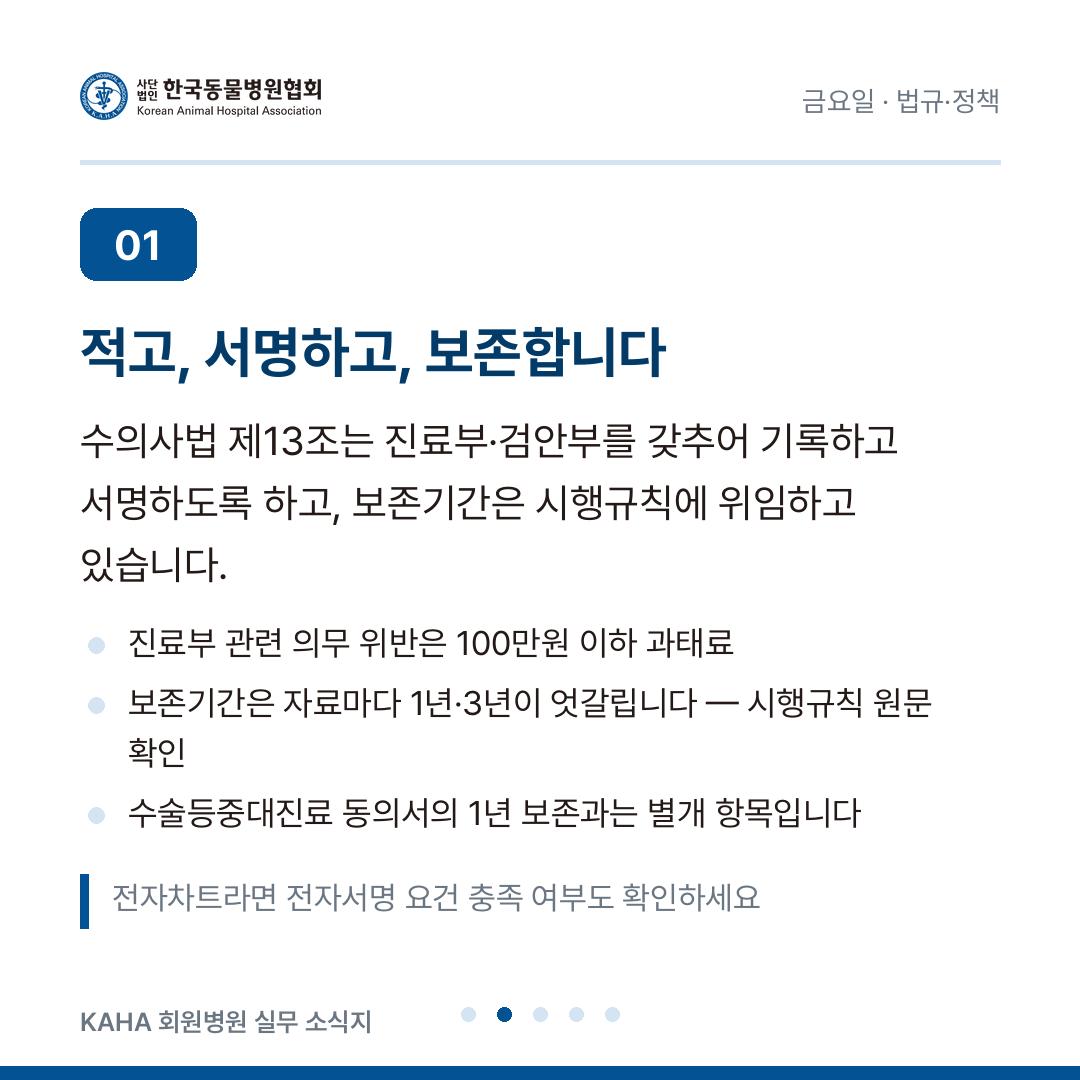
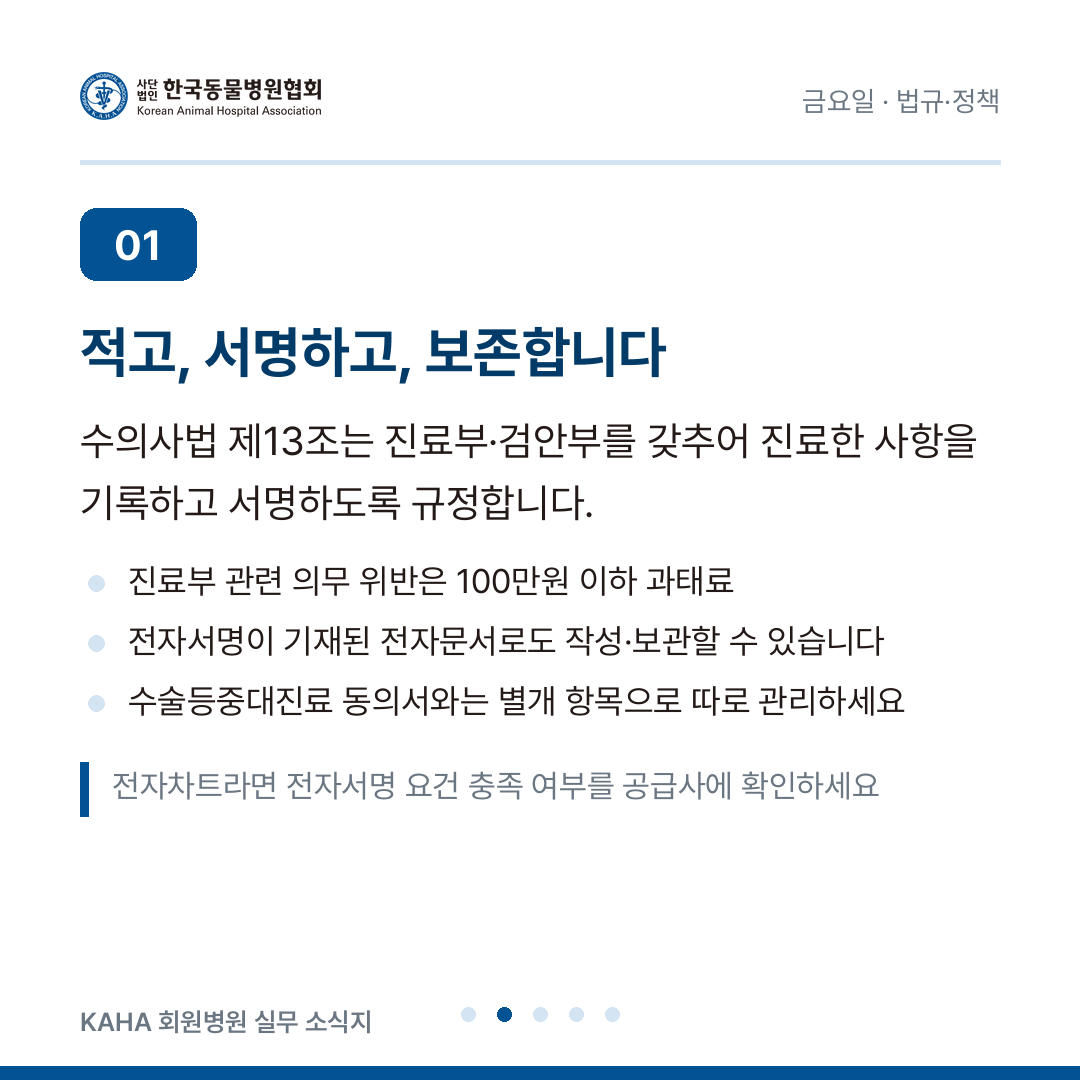
공개 문서에서 모호한 표현 제거 + 확인요청 목록 분리
협회가 회원병원에 제공하는 문서이므로 "확인이 필요하다"는 식의
유보 표현을 쓰지 않기로 함. 확신 없는 내용은 완화하지 않고 삭제하고,
싣는 내용은 단정적으로 서술.

제거한 표현이 있던 곳:
- 8/17 개정판 유무, 유권해석 문서번호 미확인, 유병률 자료 불일치,
  대한수의사회 입장문 부존재 언급
- 8/19 야간 상주 고지 규정 부존재 언급
- 8/21 진료부 보존기간 1년/3년 병기, 전자 진료부 세부조건 유보,
  헌법소원 진행단계 유보
- 8/24 검역본부 지침 발간연도 유보, 대한수의사회 지침 부존재 언급
- 8/25 출퇴근기록부 규정 부존재 언급
- 8/26 원논문 미특정 통계, 1차 출처 미확보 언급
- 8/27 기업업무추진비 한도 미확인, "이번 호에서 다루지 않은 것" 절
- 8/28 종량제 봉투 유보, 과태료 미대조 언급, 올바로 미수록 언급
카드 3세트(8/19·8/21·8/26)도 같은 기준으로 재작성 후 재생성.

factcheck/확인요청.md 신설:
삭제한 항목을 원장님이 확인할 수 있도록 우선순위별로 정리.
각 항목마다 확인처(URL·경로), 볼 내용, 확인 시 어떻게 반영할지 명시.
1순위는 진료부 보존기간(수의사법 시행규칙 제13조), 퇴직급여 형벌
시행일, 산재 업종요율. 원문 대조 없이도 근거가 충분한 항목은
"확인 불필요"로 별도 표기.

팩트체크 기록(factcheck/)은 내부 검증 기록이므로 판정과 한계를
그대로 유지.

diff --git a/factcheck/확인요청.md b/factcheck/확인요청.md
@@ -1,0 +1,104 @@
+# 원장님 확인 요청 목록
+
+작성: 2026-08-14 · 대상: 2026-08-17 ～ 08-28 발행분
+
+이 세션의 작업 환경에서는 law.go.kr·mfds.go.kr·wsava.org 등 **모든 사이트의 직접 열람이 차단**되어 있어(검색만 가능), 아래 항목은 원문 대조를 하지 못했습니다. 저장소 원칙에 따라 **해당 내용은 소식지 본문과 카드에서 모두 제거**한 상태입니다.
+
+아래는 원장님이 확인해 주시면 바로 본문에 넣을 수 있는 항목입니다. **확인 결과만 알려주시면 제가 해당 호와 팩트체크 기록에 반영합니다.**
+
+---
+
+## 우선순위 1 — 확인되면 본문에 바로 반영할 항목
+
+### 1-1. 진료부·검안부 보존기간 ★가장 중요
+
+- **왜**: 8/21 호(진료기록부)의 핵심 항목인데, 자료마다 1년과 3년이 엇갈려 현재 **수치를 빼고 발행 예정**입니다.
+- **어디서**: 국가법령정보센터 [law.go.kr](https://www.law.go.kr) → 법령 검색 "수의사법 시행규칙" → **제13조(진료부 및 검안부의 기재사항)**
+- **무엇을**: 조문 끝부분에 "진료부 또는 검안부는 **○년간** 보존하여야 한다"는 항이 있습니다. 그 숫자만 알려주시면 됩니다.
+- **반영**: 확인되면 8/21 본문에 보존기간을 명시하고, 체크리스트에 "○년 보존 관리" 항목을 넣겠습니다. 아울러 8/12 호 팩트체크 기록(현재 보류 상태)도 확정하겠습니다.
+- **참고**: 수술등중대진료 동의서 1년 보존은 별개 항목으로 이미 확인되었습니다.
+
+### 1-2. 퇴직급여 체불 형벌 상향 시행일
+
+- **왜**: 8/18 호의 **리드 문장**입니다. "2026년 9월 18일부터 5년 이하 징역 또는 5천만원 이하 벌금"으로 썼습니다.
+- **어디서**: law.go.kr → "근로자퇴직급여 보장법" → 화면 상단 **[연혁]** 또는 **[제정·개정문]** 탭 → 최근 개정 부칙의 시행일
+- **무엇을**: ① 벌칙 조항(제44조)의 형량이 5년/5천만원으로 개정되었는지 ② 부칙상 시행일이 2026-09-18이 맞는지
+- **반영**: 다르면 날짜와 형량을 정정합니다. 발행 한 달 전 시점을 리드로 쓴 것이라 날짜가 틀리면 호의 설득력이 크게 떨어집니다.
+
+### 1-3. 동물병원 산재보험 업종요율
+
+- **왜**: 8/20 호(인건비 계산)에서 현재 **"약 0.6%"**로 완화 표기했습니다. 확정하면 계산 표를 정확히 쓸 수 있습니다.
+- **어디서**: 근로복지공단 [comwel.or.kr](https://www.comwel.or.kr) → 보험료 → **산재보험료율 조회** (사업자등록번호로 조회)
+- **무엇을**: 우리 병원에 실제 적용되는 2026년 업종요율(%)
+- **반영**: "약 0.6%" → 확정 수치로 바꾸고 사업주 부담률 합계(현재 약 10.6%)를 재계산합니다.
+
+---
+
+## 우선순위 2 — 확인되면 내용을 되살릴 항목 (지금은 삭제 상태)
+
+### 2-1. 스케일링을 진료행위로 본 농식품부 유권해석 (2015)
+
+- **왜**: 8/17 호 무마취 스케일링 편의 **국내 법적 근거**였는데, 문서번호를 확인하지 못해 통째로 뺐습니다. 지금은 한국수의치과협회 입장만 실려 있어 국내 근거가 약합니다.
+- **어디서**: 농림축산식품부 [mafra.go.kr](https://www.mafra.go.kr) 정보공개 → 유권해석/질의회신, 또는 협회 법제 담당을 통해 회신 공문
+- **무엇을**: 해당 유권해석의 **연도·문서번호·요지**
+- **반영**: 확인되면 "농림축산식품부는 ○○(문서번호)에서 스케일링을 진료행위로 판단했습니다"로 본문에 되살립니다. 무면허 진료 논점으로 이어지는 가장 강한 국내 근거입니다.
+
+### 2-2. 애견미용사 스케일링 기소유예 사례
+
+- **왜**: 위 항목과 함께 뺐습니다. 실제 처분 사례라 설득력이 큽니다.
+- **어디서**: 협회 법무 자문 또는 데일리벳 기사 원문(사건 연도·관할 검찰청)
+- **무엇을**: 사건 연도와 처분 내용
+- **반영**: 8/17 국내 근거 절에 한 문장으로 추가합니다.
+
+### 2-3. 의료폐기물 위반별 과태료 금액
+
+- **왜**: 8/28 호에서 "보관기간 초과·혼합보관은 1천만원 이하"까지만 남기고, 위반 유형별 세부 금액은 뺐습니다.
+- **어디서**: law.go.kr → "폐기물관리법 시행령" → **[별표] 과태료의 부과기준**
+- **무엇을**: 미분류 혼합배출 / 보관기간 초과 / 올바로 미신고 / 교육 미이수의 1차·2차·3차 금액
+- **반영**: 표로 만들어 본문에 넣겠습니다. 실무자가 가장 궁금해하는 부분입니다.
+
+### 2-4. 올바로시스템 신고 의무와 소량배출자 특례
+
+- **왜**: 8/28 호에서 전자 인계·인수 신고, 위탁계약서 보관, 소량배출 특례를 전부 뺐습니다.
+- **어디서**: 올바로시스템 [allbaro.or.kr](https://www.allbaro.or.kr) → 제도안내, 또는 관할 지자체 환경과
+- **무엇을**: ① 동물병원도 전자 인계·인수 신고 대상인지 ② 배출량이 적은 기관에 대한 특례가 있는지
+- **반영**: 있으면 별도 절로 추가합니다. 소규모 병원에 실익이 큰 정보입니다.
+
+### 2-5. 기업업무추진비 2026년 기본한도
+
+- **왜**: 8/27 호에서 금액을 빼고 "세무사에게 당해연도 한도 확인"으로만 썼습니다.
+- **어디서**: 국세청 [nts.go.kr](https://www.nts.go.kr) 또는 담당 세무사
+- **무엇을**: 2026년 개인사업자 기본한도 금액과 수입금액 적용률
+- **반영**: 확인되면 계산식과 함께 본문에 넣겠습니다.
+
+---
+
+## 우선순위 3 — 있으면 좋은 항목
+
+| 항목 | 어디서 | 관련 호 |
+|---|---|---|
+| 검역본부 「개·고양이 항생제 처방 가이드라인」 **발간연도** | [ebook.qia.go.kr](https://ebook.qia.go.kr) 판권지 | 8/24 |
+| WSAVA 치과 가이드라인 **한국어판이 축약판인지 전문판인지** | wsava.org 번역본 PDF 첫 장 | 8/17 |
+| 진료부 기재사항 중 **동물등록번호 인용 조문**(동물보호법 제12조 vs 제15조) | law.go.kr 수의사법 시행규칙 제13조 | 8/21 |
+| **토요일 근무**의 법적 성격(무급휴무일 vs 휴일) 병원 취업규칙상 처리 | 병원 취업규칙 · 노무사 | 8/25 (현재 미수록) |
+| 봉합사 제거 시점·응급 재내원 기준 **병원 표준 프로토콜** | 병원 내부 기준 | 8/26 양식 기본값 |
+
+---
+
+## 확인이 필요 없는 항목 (원문 대조 없이도 근거가 충분한 것)
+
+아래는 정부 보도자료·대법원 판결문 등 1차에 준하는 출처가 복수로 확인되어 **그대로 발행해도 되는** 내용입니다.
+
+- 2026년 최저임금 10,320원 / 월 2,156,880원 (고용노동부 고시)
+- 국민연금 9.5%, 건강보험 7.19%, 장기요양 0.9448% (정책브리핑·보건복지부 보도자료)
+- 대법원 2024.12.19. 통상임금 전원합의체 판결 (대법원 보도자료)
+- 대법원 2007다90760 퇴직금 분할약정 무효 판결
+- 수의사법 제13조의2 수술등중대진료 서면동의, 시행일 2022.7.5 (농식품부)
+- 진료비 게시 2024.1.5 전면 시행 / 2025.1.1 20개 항목 확대 (정책브리핑)
+- 식약처 2026.8.5 동물병원 46곳 점검 28곳 적발 (복수 전문지 일치)
+- ISCAID 2025 농피증 가이드라인 권고 (오픈액세스 원문 공개)
+- 폐기물관리법 제2조 제5호 의료폐기물 정의에 동물병원 명시
+
+---
+
+**진행 방법**: 위 항목 중 확인되는 것만 알려주시면 됩니다. 전부 아니어도 되고, 1-1(진료부 보존기간) 하나만 해결돼도 8/21 호가 완성됩니다.

diff --git a/issues/2026-08-26.md b/issues/2026-08-26.md
@@ -7,7 +7,7 @@
 
 ## 법적 의무는 아닙니다. 그런데 실익이 큽니다
 
-먼저 분명히 해두겠습니다. **확인된 범위에서 국내법에 "퇴원 시 서면 안내문을 교부하라"는 의무 규정은 없습니다.** 수의사법이 서면을 요구하는 것은 수술등중대진료의 **사전** 설명·동의서이고, 예상 진료비용 고지는 **구두**로도 가능합니다.
+먼저 분명히 해두겠습니다. **국내법에 "퇴원 시 서면 안내문을 교부하라"는 의무 규정은 없습니다.** 수의사법이 서면을 요구하는 것은 수술등중대진료의 **사전** 설명·동의서이고, 예상 진료비용 고지는 **구두**로도 가능합니다.
 
 그럼에도 이 문서를 권하는 이유는 **증명** 때문입니다. 법원은 수의사가 구체적 설명을 했다는 점을 증명하지 못한 사안에서 설명의무 불이행을 인정하고 위자료 배상을 명한 사례가 있습니다(대전지방법원 2022. 9. 8. 선고 2021나150 판결). 한국소비자원에 접수된 동물병원 관련 피해구제에서도 "설명 부족"은 반복 등장하는 유형입니다.
 
@@ -19,7 +19,7 @@
 
 같은 가이드라인은 마취 관련 사망의 상당수가 회복기에, 그중 대부분이 초기 몇 시간 안에 발생한다는 점을 인용합니다. **퇴원 직후 몇 시간이 보호자에게 넘어가는 구간**이라는 점을 안내문에 반영할 이유가 여기 있습니다.
 
-투약 순응도 연구들은 서면 지침과 투약 체크리스트가 도움이 된다고 보고합니다. 고양이 대상 연구에서는 **퇴원 전에 경구약의 기호성과 보호자가 실제로 투여할 수 있는지를 확인**하는 것이 순응도를 개선할 수 있다는 결론이 제시되었습니다. 짧은 항생제 요법을 받은 개에서 보호자의 절반 이상이 1일 투여 횟수를 부정확하게 투여했고 대부분 과소투여였다는 보고도 있습니다(원논문 특정은 확인하지 못했습니다).
+투약 순응도 연구들은 서면 지침과 투약 체크리스트가 도움이 된다고 보고합니다. 고양이 대상 연구에서는 **퇴원 전에 경구약의 기호성과 보호자가 실제로 투여할 수 있는지를 확인**하는 것이 순응도를 개선할 수 있다는 결론이 제시되었습니다.
 
 ## 이 안내문은 처방전이 아닙니다
 
@@ -43,16 +43,16 @@
 8. **응급 연락 기준** — 병원이 환자별로 채우는 빈칸 + 야간·공휴일 연락처
 9. **서명란** — 보호자 확인 서명, 설명자 서명, "함께 읽으며 구두 설명 완료" 체크
 
-## 날짜와 기준을 인쇄하지 않은 이유
+## 날짜를 비워 둔 이유
 
-봉합사 제거 시점이나 응급 재내원 기준(red flag) 목록은 임상에서 널리 통용되지만, **인용할 만한 1차 출처를 이번 검증에서 확보하지 못했습니다.** 그래서 양식에 숫자를 박아 넣지 않고 **담당 수의사가 환자마다 기입하는 빈칸**으로 두었습니다.
+봉합사 제거 시점과 응급 재내원 기준은 수술 종류와 환자 상태에 따라 달라집니다. 그래서 양식에 숫자를 인쇄하지 않고 **담당 수의사가 환자마다 기입하는 빈칸**으로 두었습니다. 인쇄된 값이 실제 환자와 맞지 않으면 그 자체가 잘못된 안내가 되기 때문입니다.
 
-이 설계가 실무적으로도 낫습니다. 수술 종류와 환자 상태에 따라 달라지는 값을 인쇄해 두면 오히려 안 맞는 안내가 나갑니다. 병원 프로토콜이 정해져 있다면 워드 파일에서 기본값을 채워 쓰시면 됩니다.
+병원 프로토콜이 정해져 있다면 워드 파일에서 기본값을 채워 쓰시면 됩니다.
 
 ## 운영 팁
 
 - **안내문만 쥐여 보내지 마세요.** 순응도 관련 실무 문헌은 보호자와 마주 앉아 안내문을 함께 읽고 질문을 받은 뒤 동물을 인계하라고 권합니다. 서면은 구두 설명을 대체하는 것이 아니라 뒷받침하는 것입니다.
-- **사본 1부는 진료기록과 함께 보관하세요.** 진료부 보존기간은 시행규칙에 정해져 있으니 원문으로 확인해 그 기간에 맞추시면 됩니다.
+- **사본 1부는 진료기록과 함께 보관하세요.** 나중에 설명 여부가 문제될 때 꺼내 볼 수 있는 유일한 자료입니다.
 - 투약 체크 달력은 보호자가 냉장고에 붙여두는 용도입니다. 그 자체로 순응도 개선 효과를 기대할 수 있습니다.
 - NSAID를 처방했다면 위장관 증상이나 식욕 저하 시 중단하고 연락하라는 안내를 넣는 것이 일반적입니다. 다만 이는 병원 판단으로 채우는 항목으로 두었습니다.
 

diff --git a/issues/2026-08-21.md b/issues/2026-08-21.md
@@ -7,9 +7,7 @@
 
 수의사법 제13조는 수의사가 **진료부 또는 검안부를 갖추어 진료·검안한 사항을 기록하고 서명**하도록 하고, 기재사항·보존기간·보존방법은 농림축산식품부령(시행규칙)에 위임하고 있습니다. 진료부 관련 의무를 위반하면 **100만원 이하의 과태료** 대상이 됩니다.
 
-**보존기간은 반드시 원문으로 확인하고 관리하세요.** 이 항목은 자료마다 1년과 3년으로 엇갈리게 안내되고 있어, 본 소식지도 이번 호에서는 어느 한쪽을 단정하지 않겠습니다. 국가법령정보센터에서 「수의사법 시행규칙」의 진료부·검안부 조문을 직접 확인하신 뒤 그 기간에 맞춰 관리하시기 바랍니다. 확인되는 대로 별도 안내드리겠습니다.
-
-혼동하기 쉬운 점 하나만 짚어두면, **수술등중대진료 동의서의 1년 보존은 진료부 보존기간과 별개의 항목**입니다. 두 가지를 같은 것으로 묶어 기억하다 보면 어느 쪽도 정확하지 않게 됩니다.
+혼동하기 쉬운 점 하나를 짚어두면, **수술등중대진료 동의서의 보존과 진료부 보존은 별개의 항목**입니다. 두 가지를 하나로 묶어 관리하다 보면 어느 쪽도 기준에 맞지 않게 됩니다.
 
 시행규칙이 정한 진료부 기재사항은 대체로 다음과 같습니다. 조문 문언을 그대로 옮기는 대신 항목만 정리합니다.
 
@@ -25,7 +23,7 @@
 
 ## 전자 진료부
 
-진료부·검안부는 전자서명법에 따른 전자서명이 기재된 전자문서로 작성·보관할 수 있는 것으로 확인됩니다. 다만 세부 조건(보관 방식, 백업 의무 등)은 원문 확인이 필요한 부분이라 여기서는 단정하지 않겠습니다. 전자차트를 쓰신다면 **서명 기능이 실제로 법적 전자서명 요건을 충족하는지**를 공급사에 확인해 두시는 편이 안전합니다.
+진료부·검안부는 전자서명법에 따른 전자서명이 기재된 전자문서로 작성·보관할 수 있습니다. 전자차트를 쓰신다면 **차트의 서명 기능이 법적 전자서명 요건을 충족하는지**를 공급사에 확인해 두시기 바랍니다. 서명 없이 저장만 되는 방식이라면 작성 의무를 이행한 것으로 보기 어렵습니다.
 
 ## 지금 가장 뜨거운 쟁점 — 보호자의 진료기록 열람·사본 교부
 
@@ -37,7 +35,7 @@
 
 | 경로 | 현재 상태 |
 |---|---|
-| **헌법소원** | 2025년 11월, 동물권 변호사단체와 보호자 개인이 수의사법 제13조 제1항의 입법부작위를 다투는 헌법소원을 제기했다고 보도되었습니다. **결정은 나오지 않았습니다.** 진행 단계에 대한 보도가 엇갈려 여기서는 특정하지 않습니다. |
+| **헌법소원** | 2025년 11월, 동물권 변호사단체와 보호자 개인이 수의사법 제13조 제1항의 입법부작위를 다투는 헌법소원을 제기했습니다. **아직 결정은 나오지 않았습니다.** |
 | **국회 법률안** | 열람·사본 발급 요청을 정당한 사유 없이 거부하지 못하도록 하는 수의사법 개정안이 22대 국회에 발의되어 **계류 중**입니다. 유사 법안이 복수로 발의된 정황도 있습니다. 통과·시행된 바 없습니다. |
 | **정부 추진 과제** | 2024년 10월 제6차 농식품 규제혁신 전략회의에서 "양육자 요청 시 진료기록 열람 또는 사본 발급 의무 부여"가 과제로 확정되고 수의사법 개정을 추진하기로 했습니다. **과제 확정이지 법 개정이 아닙니다.** 비전문가의 약품 오남용 방지를 위해 제공 목적을 제한하는 방안이 함께 검토되고 있습니다. |
 
@@ -49,7 +47,7 @@
 
 ## 실무 체크리스트
 
-- [ ] 진료부 보존기간을 시행규칙 원문으로 확인하고 그에 맞춰 관리하고 있는가 (동의서 1년과는 별개 항목)
+- [ ] 진료부와 수술등중대진료 동의서를 각각의 보존기준에 맞춰 따로 관리하고 있는가
 - [ ] 마약류를 사용한 진료에서 품명·수량을 진료부에 기재하고 있는가
 - [ ] 동물등록번호 기재란이 차트에 있고 실제로 채워지고 있는가
 - [ ] 전자차트의 서명 기능이 전자서명 요건을 충족하는지 공급사에 확인했는가

diff --git a/issues/2026-08-28.md b/issues/2026-08-28.md
@@ -35,8 +35,6 @@
 
 입원 동의서나 사체 처리 동의서에 **인도 희망 여부를 미리 확인하는 칸**을 두는 이유가 여기 있습니다. 사망 직후에 처음 논의하면 감정적으로 어려운 대화가 됩니다.
 
-한편 소유자가 자택에서 반려동물이 죽었을 때 종량제 봉투로 배출하는 것의 적법성은 병원 배출분과 법적 취급이 다릅니다. 이 부분은 이번 검증에서 근거를 확인하지 못해 단정하지 않겠습니다. 보호자 문의를 받으시면 **동물장묘업 등록 시설 이용을 안내**하는 편이 안전합니다.
-
 ## 배출자 교육은 의무입니다
 
 의료폐기물 배출자는 **개설 후 1년 이내에 최초 교육**을 이수하고, 이후 **3년마다 재교육**을 받아야 합니다. 환경부가 지정한 교육기관에서 온라인으로 이수할 수 있습니다(한국폐기물협회 교육 홈페이지 등). 법 위반으로 행정처분을 받은 경우에는 그 처분일부터 1년 이내에 추가 교육을 받아야 합니다.
@@ -45,9 +43,7 @@
 
 ## 위반하면
 
-폐기물관리법상 의료폐기물 관련 위반에는 과태료가 부과됩니다. **보관기간 초과나 다른 폐기물과의 혼합 보관은 1천만원 이하의 과태료** 대상으로 확인됩니다. 다만 위반 유형별 세부 부과 금액은 시행령 별표의 부과기준에 따라 달라지고, 이번 검증에서 항목별 금액을 모두 대조하지는 못했습니다. **정확한 금액은 관할 지자체 환경부서에 확인하시기 바랍니다.**
-
-전자 인계·인수 시스템(올바로, allbaro.or.kr)을 통한 처리 실적 관리, 위탁 처리 계약과 계약서 보관에 관한 세부 요건도 이번 호에서는 확인된 범위를 넘어서므로 다루지 않았습니다.
+**보관기간 초과와 다른 폐기물과의 혼합 보관은 1천만원 이하의 과태료 대상입니다.** 실제 부과 금액은 폐기물관리법 시행령의 과태료 부과기준에 따라 위반 유형과 횟수별로 정해지며, 최근 1년 내 같은 위반으로 처분받은 이력이 있으면 가중됩니다.
 
 ## 실무 체크리스트
 
@@ -93,4 +89,4 @@
 
 ---
 
-*본 호는 일반적인 실무 안내이며 개별 사안에 대한 법률자문이 아닙니다. 과태료 금액과 위탁·전자인계 세부 요건은 관할 지자체 환경부서 및 국가법령정보센터(law.go.kr) 원문으로 확인하시기 바랍니다. 본 호의 사실관계는 발행 전 검증을 거쳤습니다(검증 기록: 저장소 `factcheck/2026-08-28.md`). 즐거운 주말 보내세요.*
+*본 호는 일반적인 실무 안내이며 개별 사안에 대한 법률자문이 아닙니다. 위탁 처리 계약과 전자 인계·인수 등 세부 절차는 관할 지자체 환경부서에서 안내받으실 수 있습니다. 본 호의 사실관계는 발행 전 검증을 거쳤습니다(검증 기록: 저장소 `factcheck/2026-08-28.md`). 즐거운 주말 보내세요.*

diff --git a/issues/2026-08-27.md b/issues/2026-08-27.md
@@ -47,7 +47,7 @@
 - 거래 건당 **3만원 이하**는 간이영수증도 가능하지만, **3만원을 초과**하는 거래에서 적격증빙을 받지 못하면 비용 인정은 되더라도 **미수취 금액의 2%가 증빙불비가산세**로 붙습니다.
 - **기업업무추진비(옛 접대비)는 취급이 다릅니다.** 건당 3만원(경조사비 20만원)을 초과하면서 적격증빙이 없으면 가산세로 끝나지 않고 **지출액 전액이 비용으로 인정되지 않습니다.** 일반 경비와 혼동하기 쉬운 지점입니다.
 
-기업업무추진비 한도는 기본한도에 수입금액 비율을 더해 계산하는데, **2026년 기준 금액은 이번 검증에서 확인하지 못했습니다.** 한도 계산이 필요하시면 담당 세무사에게 당해연도 기준으로 확인받으시기 바랍니다.
+기업업무추진비는 한도까지만 비용으로 인정됩니다. 한도는 기본한도에 수입금액 비율을 더해 계산하므로, 지출이 많은 해에는 담당 세무사에게 당해연도 한도를 미리 확인해 두시는 편이 좋습니다.
 
 ## 실무 체크리스트
 
@@ -57,10 +57,6 @@
 - [ ] 예정신고 후 확정신고에서 정산이 이루어지고 있는가
 - [ ] 3만원 초과 거래에서 적격증빙을 빠짐없이 받고 있는가
 - [ ] 기업업무추진비를 일반 경비와 구분해 관리하고 있는가
-
-## 이번 호에서 다루지 않은 것
-
-업무용승용차 비용 처리, 인건비 지급명세서 제출 주기, 사업용 계좌·신용카드 신고 의무, 사업장현황신고와 부가세신고의 관계는 이번 검증에서 2026년 기준 수치를 확인하지 못해 싣지 않았습니다. 확인되는 대로 별도 호에서 다루겠습니다.
 
 ## 출처
 

diff --git a/issues/2026-08-19.md b/issues/2026-08-19.md
@@ -22,7 +22,7 @@
 
 ## 야간·휴일 관리 체계는 미리 적어두세요
 
-입원 분쟁에서 반복되는 것이 "밤새 봐주는 줄 알았다"입니다. 확인해 본 범위에서는 **야간 상주 여부를 고지하도록 요구하는 법령상 규정은 찾지 못했습니다.** 의무가 아니라는 뜻이지, 안 알려도 된다는 뜻은 아닙니다. 야간 수의사 상주인지, 무인 관리이고 몇 시 최종 처치 후 다음 날 몇 시에 확인하는지를 문장으로 적어두면 오해가 대부분 사라집니다. 배포 양식에는 이 칸을 별도로 두었습니다.
+입원 분쟁에서 반복되는 것이 "밤새 봐주는 줄 알았다"입니다. 야간 수의사가 상주하는지, 무인 관리라면 몇 시에 최종 처치를 하고 다음 날 몇 시에 확인하는지를 문장으로 적어두면 이 오해는 대부분 사라집니다. 배포 양식에는 이 칸을 별도로 두었습니다.
 
 ## 입원 동의서 (템플릿)
 

diff --git a/issues/2026-08-25.md b/issues/2026-08-25.md
@@ -68,7 +68,7 @@
 
 ## 기록은 남기셔야 합니다
 
-출퇴근기록부 자체를 작성·보존하라는 별도 규정은 확인되지 않습니다. 다만 구조를 보면 사실상 기록이 필요합니다.
+근태 기록은 임금대장 의무를 통해 사실상 필요합니다.
 
 - **임금대장**(제48조·시행령 제27조)에 근로일수, 근로시간수, 연장·야간·휴일 근로시간수를 기재해야 합니다. 다만 상시 4명 이하 사업장은 연장·야간·휴일 근로시간수 기재를 생략할 수 있습니다.
 - **계약 서류는 3년 보존**(제42조·시행령 제22조). 근로계약서, 임금대장, 임금 계산 기초 서류, 고용·해고·퇴직에 관한 서류, 휴가에 관한 서류 등이 대상이고, 기산점은 입사일이 아니라 **근로관계가 종료된 시점**입니다.
